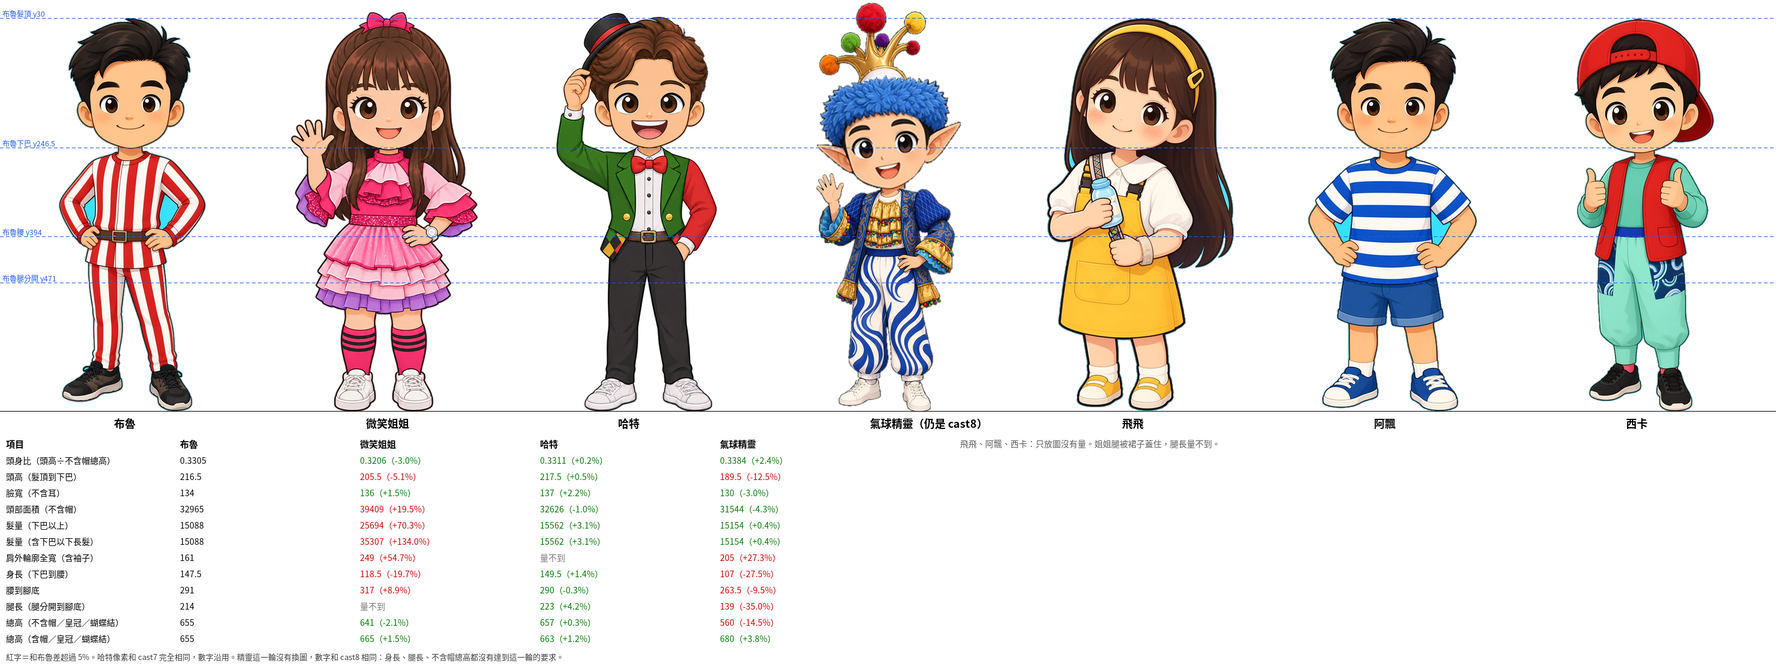
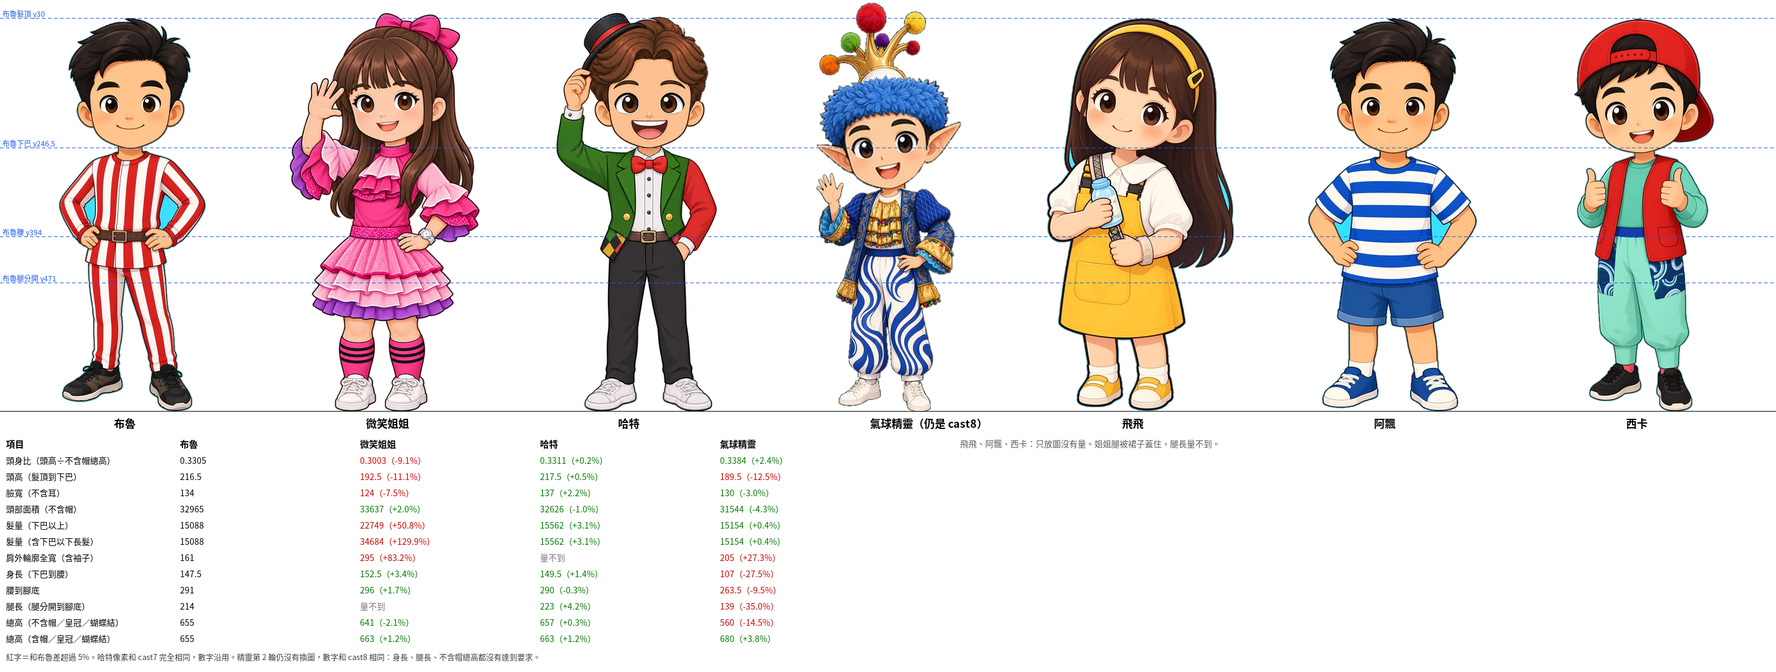
小頌 cast9 第 2 次交叉檢查：審查圖與報告

diff --git a/review/cast9/xiaosong/scripts/img9.py b/review/cast9/xiaosong/scripts/img9.py
@@ -39,8 +39,8 @@ def overlay(n,fn,note):
     if r.get('leg'): s+=f'　腿長 {r["leg"]:g}（{pc("leg")}）'
     d.text((8,H+34),s,fill=(0,0,0),font=F(13)); d.text((8,H+60),note,fill=(200,0,0),font=F(14,True))
     o.save(f'{OUT}/{fn}')
-overlay('jiejie','overlay-sister-vs-blue.png','cast9 姐姐（整張重畫）。頭部面積、髮量、身長超過 ±5%。')
-overlay('spirit','overlay-spirit-vs-blue.png','注意：精靈這張圖和 cast8 逐像素相同，這一輪沒有重畫、沒有加高。')
+overlay('jiejie','overlay-sister-vs-blue.png','cast9 第 2 輪姐姐（整張重畫）。頭部面積、身長、總高在 ±5% 內；頭高 −11.1%、頭身比 −9.1%、臉寬 −7.5% 超過 ±5%。')
+overlay('spirit','overlay-spirit-vs-blue.png','注意：精靈這張圖和 cast8 逐像素相同，第 2 輪仍然沒有重畫、沒有加高。')
 # seven
 order=['bulu','jiejie','hate','spirit','feifei','apiao','sika']; cw=420; H=720
 o=Image.new('RGB',(cw*7+20,H+400),'white'); d=ImageDraw.Draw(o)
@@ -71,7 +71,7 @@ for i,(lab,k,fm) in enumerate(rows):
             elif n!='bulu' and bv:
                 p=(v-bv)/bv*100; s+='（%+.1f%%）'%p; col=(200,0,0) if abs(p)>5 else (0,120,0)
         d.text((300+j*300,y),s,fill=col,font=F(14))
-d.text((10,y0+28+len(rows)*27+4),'紅字＝和布魯差超過 5%。哈特像素和 cast7 完全相同，數字沿用。精靈這一輪沒有換圖，數字和 cast8 相同：身長、腿長、不含帽總高都沒有達到這一輪的要求。',fill=(60,60,60),font=F(13))
+d.text((10,y0+28+len(rows)*27+4),'紅字＝和布魯差超過 5%。哈特像素和 cast7 完全相同，數字沿用。精靈第 2 輪仍沒有換圖，數字和 cast8 相同：身長、腿長、不含帽總高都沒有達到要求。',fill=(60,60,60),font=F(13))
 o.save(f'{OUT}/cmp-seven.png')
 def edges(n,regions,title):
     full_d=comp(P(n),(40,40,48)); full_w=comp(P(n),(255,255,255)); dw=ImageDraw.Draw(full_w)
@@ -90,8 +90,8 @@ def edges(n,regions,title):
             d.text((x,y),lab,fill=(0,0,0),font=F(14)); o.paste(p,(x,y+24)); y+=p.size[1]+34
         x+=cwid[j]
     o.save(f'{OUT}/edges-{n}.png')
-edges('jiejie',[('蝴蝶結',(225,12,325,62),4),('瀏海',(200,105,350,150),3),('舉手指縫',(108,192,192,266),4),('下巴、脖子',(225,228,335,280),4),('右側頭髮外緣與肩膀間的空隙',(350,225,420,300),4),('左袖口',(115,285,200,385),3),('叉腰手、手錶',(295,345,405,415),3),('襪口與裙擺',(185,495,355,560),3),('鞋子',(180,615,360,690),3)],'微笑姐姐　cast9　左：深色底　右：白底＋放大位置')
-edges('spirit',[('舉手袖口',(130,335,200,405),5),('皇冠底座和頭髮交界',(215,108,325,148),5),('左耳、鬢角',(140,225,220,300),4),('下巴、脖子',(220,295,320,345),4),('右耳尖',(320,205,400,275),4)],'氣球精靈　和 cast8 逐像素相同（這一輪沒有換圖）　左：深色底　右：白底＋放大位置')
+edges('jiejie',[('蝴蝶結',(248,15,402,120),3),('瀏海',(205,95,345,150),3),('舉手指縫、手和頭髮之間的空隙',(125,125,215,240),4),('下巴、脖子',(225,212,335,262),4),('右側頭髮外緣與袖子間的空隙',(370,235,430,310),4),('左袖口',(105,215,205,335),3),('叉腰手、手錶、手臂和腰的空隙',(290,300,425,420),3),('襪口與裙擺',(185,500,355,570),3),('腳踝、鞋子',(180,600,360,690),3)],'微笑姐姐　cast9 第 2 輪　左：深色底　右：白底＋放大位置')
+edges('spirit',[('舉手袖口',(130,335,200,405),5),('皇冠底座和頭髮交界',(215,108,325,148),5),('左耳、鬢角',(140,225,220,300),4),('下巴、脖子',(220,295,320,345),4),('右耳尖',(320,205,400,275),4)],'氣球精靈　和 cast8 逐像素相同（第 2 輪仍沒有換圖）　左：深色底　右：白底＋放大位置')
 edges('hate',[('右側頭髮外緣',(322,45,372,170),4),('頭頂',(200,15,300,60),5)],'哈特　和 5b125dc 逐像素相同　左：深色底　右：白底＋放大位置')
 # legs
 L=json.load(open(T+'/legs.json')); J={int(k):v for k,v in L['J'].items()}; Fe={int(k):v for k,v in L['F'].items()}
@@ -107,24 +107,27 @@ def gapc(p,y):
 dx=int(round(gapc(P('jiejie'),600)-gapc(P('feifei'),600)))
 Lr=Image.new('RGBA',(540,720),(255,255,255,255)); Lr.alpha_composite(half(ja)); sh=Image.new('RGBA',(540,720),(0,0,0,0)); sh.paste(fa,(dx,0)); Lr.alpha_composite(half(sh))
 o.paste(big(P('jiejie')),(0,30)); o.paste(big(P('feifei')),(bw+20,30)); o.paste(Lr.convert('RGB').crop(box).resize((bw,bh),Image.LANCZOS),(bw*2+40,30))
-for i,t in enumerate(['微笑姐姐 cast9','飛飛',f'兩人各 50% 相疊（飛飛橫移 {dx:+d} px 對齊兩腿中線，腳底同一條線）']): d.text((i*(bw+20)+6,4),t,fill=(0,0,0),font=F(16,True))
+for i,t in enumerate(['微笑姐姐 cast9 第 2 輪','飛飛',f'兩人各 50% 相疊（飛飛橫移 {dx:+d} px 對齊兩腿中線，腳底同一條線）']): d.text((i*(bw+20)+6,4),t,fill=(0,0,0),font=F(16,True))
 for y in (572,590,608,620,632):
     yy=30+(y-box[1])*k
     for i,(dct,xo) in enumerate([(J,0),(Fe,bw+20)]):
         for xx in range(xo,xo+bw,10): d.line([(xx,yy),(xx+5,yy)],fill=RED)
         d.text((xo+6,yy-18),f'y{y}　左腿 {dct[y][0]}　右腿 {dct[y][1]} px',fill=RED,font=F(13,True))
 yb=bh+40
+def _m(d,y0,y1): return np.array([(d[y][0]+d[y][1])/2 for y in range(y0,y1+1) if y in d])
+jm,fm=_m(J,572,632),_m(Fe,572,632); jc,fc=_m(J,572,604),_m(Fe,572,604); ja_,fa_=_m(J,608,628),_m(Fe,608,628)
 lines=['單腿寬（alpha≥128、原圖 540×720、腳底 y685；左右指畫面左右）',
- '同一高度 y572～632（兩人都露出兩條腿、鞋子以上）平均：姐姐 50.0 px／飛飛 56.3 px＝0.89',
- '最粗處：姐姐 60／飛飛 59.5＝1.01　　最細處（腳踝）：姐姐 40（y618）／飛飛 54＝0.74',
- '姐姐腿露出的整段（y530～632）平均 52.9／飛飛 56.3＝0.94',
- '對照：cast8 姐姐同高度平均 32.7 px（對飛飛 0.58）。布魯單腿平均 52.5 px。',
+ '同一高度 y572～632（兩人都露出兩條腿）平均：姐姐 %.1f px／飛飛 %.1f px＝%.2f'%(jm.mean(),fm.mean(),jm.mean()/fm.mean()),
+ '小腿段 y572～604：姐姐 %.1f／飛飛 %.1f＝%.2f　　腳踝段 y608～628：姐姐 %.1f／飛飛 %.1f＝%.2f'%(jc.mean(),fc.mean(),jc.mean()/fc.mean(),ja_.mean(),fa_.mean(),ja_.mean()/fa_.mean()),
+ '最粗處：姐姐 %.1f／飛飛 %.1f＝%.2f　　最細處（腳踝）：姐姐 %.1f／飛飛 %.1f＝%.2f'%(jm.max(),fm.max(),jm.max()/fm.max(),jm.min(),fm.min(),jm.min()/fm.min()),
+ '對照：cast8 姐姐同高度平均 32.7 px（對飛飛 0.58）；cast9 第 1 輪 50.0 px（0.89）。布魯單腿平均 52.5 px。',
  '姐姐穿及膝長襪、飛飛光腿穿短襪，量的是外輪廓。姐姐腿往腳踝收細，飛飛是直筒。']
+print(lines)
 for i,t in enumerate(lines): d.text((8,yb+i*28),t,fill=(0,0,0),font=F(16,i==0))
 o.save(f'{OUT}/legs-sister-vs-feifei.png')
 # naturalness
 I=json.load(open(T+'/iris.json'))
-items=[('微笑姐姐 cast9','assets/chars/jiejie.png',(150,8,410,290),'jiejie9'),('氣球精靈（仍是 cast8）','assets/chars/spirit.png',(135,95,415,355),'spirit'),('飛飛（參考）','assets/chars/feifei.png',(110,20,430,340),'feifei'),
+items=[('微笑姐姐 cast9 第 2 輪','assets/chars/jiejie.png',(125,12,425,312),'jiejie9'),('氣球精靈（仍是 cast8）','assets/chars/spirit.png',(135,95,415,355),'spirit'),('飛飛（參考）','assets/chars/feifei.png',(110,20,430,340),'feifei'),
        ('姐姐原設定 origin/main',T+'/jiejie-orig.png',(190,35,350,210),None),('姐姐 cast8（被說魚眼那版）',T+'/jiejie-c8.png',(150,8,420,290),None),('精靈原設定 origin/main',T+'/spirit-orig.png',(190,150,350,300),'spirit_orig'),('布魯（比例標準）','assets/chars/bulu.png',(150,20,390,280),'bulu')]
 S=560; o=Image.new('RGB',(S*4+50,(S+70)*2+10),'white'); d=ImageDraw.Draw(o)
 for i,(t,p,b,key) in enumerate(items):

diff --git a/review/cast9/xiaosong/scripts/meas9.py b/review/cast9/xiaosong/scripts/meas9.py
@@ -26,8 +26,9 @@ def measure(n,p,top,chin,waist,seed,kind,open_k=0):
     hat=np.zeros_like(A)
     if kind=='jiejie':
         pink=A&((h>=300)|(h<=4))&(s>0.25)&(v>0.35)
-        hat=fill(dil(pink&(yy<52),1))&A&(yy<52)&~((h>5)&(h<45)&(v<0.62))   # bow
-        hand=comp_from_seed(sk,(150,240)); handz=dil(hand,4)
+        bowz=(yy<125)&(xx>250)&~dil(face,2)
+        hat=fill(dil(pink&bowz,1))&A&bowz&~((h>5)&(h<45)&(v<0.62))   # bow (r2: big, right side)
+        hand=comp_from_seed(sk,(170,170)); handz=dil(hand,4)
         cloth=A&pink&(yy>=200)
         zone&=~hat&~handz&~dil(cloth,1)&~face | face
         zone&=~((xx<170))            # anything left of hair = arm/sleeve
@@ -48,7 +49,7 @@ def measure(n,p,top,chin,waist,seed,kind,open_k=0):
     ears=np.zeros_like(A); fy,fx=np.where(face)
     for i in range(1,nl):
         cxi=_[i][0]
-        if st[i,4]>=60 and (cxi<fx.min()+8 or cxi>fx.max()-8): ears|=lab==i
+        if st[i,4]>=60 and (cxi<fx.min()+8 or cxi>fx.max()-8) and not (kind=='jiejie' and _[i][1]<140): ears|=lab==i
     ears=fill(dil(ears,EARD))&head&~face
     hair=head&~face&~ears
     fy,fx=np.where(face)
@@ -95,7 +96,7 @@ def measure(n,p,top,chin,waist,seed,kind,open_k=0):
 if __name__=='__main__':
     R={}
     R['bulu']=measure('bulu','assets/chars/bulu.png',30,246.5,394,(268,150),'bulu')
-    R['jiejie']=measure('jiejie','assets/chars/jiejie.png',int(sys.argv[2]),float(sys.argv[3]),368,(232,225),'jiejie')
+    R['jiejie']=measure('jiejie','assets/chars/jiejie.png',int(sys.argv[2]),float(sys.argv[3]),389,(265,170),'jiejie')
     R['spirit']=measure('spirit','assets/chars/spirit.png',int(sys.argv[4]),float(sys.argv[5]),421.5,(268,240),'spirit',open_k=3)
     json.dump(R,open(T+'/R.json','w'),indent=1,default=float)
     ks=[k for k in R['bulu']]

diff --git a/review/cast9/xiaosong/scripts/iris.py b/review/cast9/xiaosong/scripts/iris.py
@@ -3,7 +3,7 @@ T=sys.argv[1]; sys.path.insert(0,T)
 from seg import load,hsv
 from PIL import Image
 # name: path, face box (x0,y0,x1,y1) rough, faceW (proper, no ear)
-C={'jiejie9':('assets/chars/jiejie.png',(200,130,350,255),136),'jiejie_orig':(T+'/jiejie-orig.png',(222,95,312,190),None),'jiejie8':(T+'/jiejie-c8.png',(190,95,350,255),140),
+C={'jiejie9':('assets/chars/jiejie.png',(205,125,340,240),124),'jiejie_r1':(T+'/jiejie-r1.png',(200,130,350,255),136),'jiejie_orig':(T+'/jiejie-orig.png',(222,95,312,190),None),'jiejie8':(T+'/jiejie-c8.png',(190,95,350,255),140),
    'feifei':('assets/chars/feifei.png',(170,110,340,250),None),'spirit':('assets/chars/spirit.png',(205,195,340,320),130),'spirit_orig':(T+'/spirit-orig.png',(228,200,312,280),None),'bulu':('assets/chars/bulu.png',(199,110,333,250),134)}
 res={}; tiles=[]
 for n,(p,b,fw) in C.items():

diff --git a/review/cast9/xiaosong/review-r2.md b/review/cast9/xiaosong/review-r2.md
@@ -1,0 +1,195 @@
+VERDICT: FAIL
+
+# 小頌交叉檢查：PR #5 cast9（第 2 次審查）
+
+小頌，2026-11-12。只檢查，沒有生圖、改圖、commit、push、merge，沒有碰 PR #4、photo-live-beauty、threads-revival。
+審的是分支 xiaoxia/cast-redraw-v2 的 commit 72c1f0a（本機和遠端同一個，審查前工作區乾淨）。
+數字是我在本機直接讀像素量的，量法和 cast8、cast9 第 1 次相同；布魯和精靈重量出來和前兩次完全一樣，確認量法沒變。姐姐是新圖，只改了定位點（髮頂 y44、下巴 y236.5、腰帶中線 y389、蝴蝶結和舉手的位置）。
+
+## 結論：精靈還是沒做，所以不過；姐姐這一輪大致可以收
+
+1. **精靈第 2 輪仍然完全沒動。** `assets/chars/spirit.png` 和 cast8 逐像素相同（0 個像素不同）。我的王要的「身高拉高」沒有做：身長 −27.5%、腿長 −35.0%、不含帽總高 −14.5%，三項都沒進 ±5%。
+2. **精靈的大頭感還在。** 圖沒換，頭仍是原設定的臉單獨放大 1.65 倍、身體縮 0.925 倍拼出來的。
+3. **姐姐沒有魚眼。** 整個人一次重畫，我拿小夏留的高解析來源圖核對：橫向和直向縮小倍率都是 0.478，是整張等比縮小，沒有局部放大或拉伸。
+4. **姐姐的臉回到原設定的樣子**：微側臉、腮紅、圓眼、大蝴蝶結偏右都回來了。不是逐像素同一張臉，是照原設定重畫。
+5. **姐姐的腿和飛飛差不多粗了**：小腿段是飛飛的 1.03 倍，整段平均 0.94 倍；只有腳踝還比飛飛細（0.83 倍）。
+6. **姐姐還有三項超過 ±5%**：頭高 −11.1%、頭身比 −9.1%、臉寬 −7.5%。頭部面積 +2.0%、身長 +3.4%、總高 −2.1% 都在範圍內。小夏有寫數字和取捨（不用局部放大去湊）。站在七人裡，姐姐的臉看起來比布魯、哈特小一點。
+
+哈特過（逐像素相同）。
+
+精靈卡住的原因和上一輪一樣：皇冠原樣、身高達標、畫布 540×720 三個條件無法同時成立，小夏在等我的王選。這個算式我上一輪核過是對的。
+
+## 1. 魚眼／局部放大／自然感
+
+圖：`review/cast9/xiaosong/naturalness-vs-feifei.png`（上排姐姐、精靈、飛飛；下排姐姐原設定、姐姐 cast8、精靈原設定、布魯）。
+
+| 檢查 | 微笑姐姐 cast9 第 2 輪 | 氣球精靈（仍是 cast8） | 飛飛（參考） |
+|---|---|---|---|
+| 凸透鏡／局部放大 | **沒有。** 來源圖整張等比縮小（橫 0.4781、直 0.4780），縮完和成品疊起來顏色平均只差 2/255 | **有。** 頭是原設定的臉放大 1.65 倍，身體縮 0.925 倍，分開處理 | 沒有 |
+| 液化、非等比拉伸 | 沒有 | 臉本身長寬同倍率，沒有拉伸 | 沒有 |
+| 大頭狗感 | 沒有。頭高反而比布魯矮 11% | 有：不含帽身高只有布魯的 85%，頭卻和布魯差不多大 | 飛飛本身是大頭 Q 版 |
+| 眼線傾斜（兩眼瞳孔連線） | 4.7°，微微歪頭 | 10.2°（原設定就歪 10.7°） | 15.1°（歪頭姿勢） |
+| 左右眼大小比 | 0.63（微側臉，遠的那隻眼小，和飛飛同一種畫法） | 1.08 | 0.69 |
+| 五官比例 | 兩眼距離是臉寬的 0.53，布魯 0.47、精靈 0.51；沒有鼓出來 | 兩眼距離比例正常 | — |
+| 頭→脖子→肩膀 | 連續，下巴、高領、肩膀沒有接縫或斷線 | 沒有斷線 | 連續 |
+| 瀏海 | 一排，沒有 cast8 的兩排接縫 | — | — |
+
+- **姐姐：這一項通過。** cast8 那種鼓出來的臉、貼臉接縫都沒有了；第 1 輪「像證件照」的正面對稱臉也改掉了，現在和飛飛一樣是微側臉。
+- **精靈：這一項不通過。** 圖沒換，我的王說的大頭、魚眼感原封不動。
+
+## 2. 逐項數字表（布魯 vs 三人）
+
+四張都是 540×720、腳底 y685，原圖直接比。括號是和布魯的差距，**粗體是超過 5%**。帽子、皇冠、蝴蝶結不算頭。
+
+| 項目 | 布魯 | 微笑姐姐 cast9 第 2 輪 | 哈特（沿用 cast7） | 精靈 不含帽 | 精靈 含帽 |
+|---|---:|---:|---:|---:|---:|
+| 頭身比（頭高÷不含帽總高） | 0.3305 | **0.3003（−9.1%）** | 0.3311（+0.2%） | 0.3384（+2.4%） | — |
+| 頭高（髮頂到下巴） | 216.5 | **192.5（−11.1%）** | 217.5（+0.5%） | **189.5（−12.5%）** | — |
+| 臉最寬（不含耳） | 134 | **124（−7.5%）** | 137（+2.2%） | 130（−3.0%） | — |
+| 頭部面積（不含帽） | 32965 | 33637（+2.0%） | 32626（−1.0%） | 31544（−4.3%） | — |
+| 髮量（下巴以上） | 15088 | **22749（+50.8%）** | 15562（+3.1%） | 15154（+0.4%） | — |
+| 髮量（含下巴以下長髮） | 15088 | **34684（+129.9%）** | 15562（+3.1%） | 15154（+0.4%） | — |
+| 頭寬（含頭髮） | 204 | **229（+12.3%）** | 194（−4.9%） | **234（+14.7%）**，扣耳朵 211（+3.4%） | — |
+| 臉的面積（膚色部分） | 16159 | **9978（−38.3%）** | — | **12594（−22.1%）** | — |
+| 肩外輪廓全寬（含頭髮、袖子） | 161 | **295（+83.2%）** | 量不到（舉手） | **205（+27.3%）** | — |
+| 身長（下巴到腰） | 147.5 | 152.5（+3.4%） | 149.5（+1.4%） | **107（−27.5%）** | — |
+| 腰到腳底 | 291 | 296（+1.7%） | 290（−0.3%） | **263.5（−9.5%）** | — |
+| 腿長（兩腿分開點到腳底） | 214 | 量不到（裙子蓋住） | 223（+4.2%） | **139（−35.0%）** | — |
+| 總高 | 655 | 641（−2.1%），含蝴蝶結 663（+1.2%） | 657（+0.3%） | **560（−14.5%）** | 680（+3.8%） |
+
+定位點（y）：布魯髮頂 30、下巴 246.5、腰 394；姐姐髮頂 44、下巴 236.5、腰 389；精靈髮頂 125、下巴 314.5、腰 421.5、皇冠頂 5。
+
+對照這一輪的條件：
+
+- **姐姐**
+  - 總高 −2.1%：過。
+  - 頭身比 −9.1%：**超過 ±5%**。原因是頭高矮了 24 px（布魯是往上翹的刺蝟頭，頭髮把頭撐高；姐姐頭頂平、被蝴蝶結壓著）。
+  - 頭部大小：頭部面積 +2.0% 過（第 1 輪是 +19.5%）；**頭高 −11.1%、臉寬 −7.5% 超過 ±5%**。小夏報告有寫這三個數字和理由（保住自然的五官和髮型，不局部放大），算有交代。
+  - 臉的膚色面積只有布魯的 62%：齊瀏海蓋住額頭，加上臉本身窄一點。所以排在一起臉看起來比較小。
+  - 身長 +3.4%：過（第 1 輪是 −19.7%）。
+  - 髮量、肩外輪廓大很多，是長髮和喇叭袖造成的，角色設定本來就這樣。
+- **精靈**
+  - 身長、腿長、不含帽總高三項要 ±5%：**−27.5%、−35.0%、−14.5%，三項都不過。**
+  - 含帽總高 680，是七人裡最高，但那是 cast8 就有的。
+  - 頭維持 cast8 大小：是（圖沒動），但魚眼感也沒解。
+
+小夏的數字和我的對得上：她髮頂取 y46、我取 y44，所以她頭高 −12.0%、頭身比 −9.8%，我 −11.1%、−9.1%；頭部面積她 +1.1%、我 +2.0%；臉寬、身長、肩寬相同。沒有結論相反的項目。
+
+## 3. 姐姐腿寬對飛飛
+
+圖：`review/cast9/xiaosong/legs-sister-vs-feifei.png`。alpha≥128、腳底同一條線、單腿外輪廓（畫面左腿／右腿）。
+
+| 位置 | 姐姐 | 飛飛 | 姐姐÷飛飛 |
+|---|---:|---:|---:|
+| y572（小腿上段） | 59／60 | 56／60 | 1.05／1.00 |
+| y590 | 59／59 | 55／57 | 1.07／1.04 |
+| y602 | 54／54 | 54／55 | 1.00／0.98 |
+| y608 | 51／51 | 55／56 | 0.93／0.91 |
+| y620（腳踝） | 45／45 | 55／56 | 0.82／0.80 |
+| y626 | 42／43 | 57／54 | 0.74／0.80 |
+| 小腿段 y572～604 平均 | 58.1 | 56.5 | **1.03** |
+| 同高度 y572～632 整段平均 | 53.1 | 56.3 | **0.94** |
+| 腳踝段 y608～628 平均 | 46.2 | 55.8 | 0.83 |
+| 最粗處 | 60 | 59.5 | 1.01 |
+| 最細處 | 42.5（y622） | 54 | 0.79 |
+
+- cast8 是 0.58 倍、第 1 輪 0.89 倍，現在整段 0.94、小腿 1.03。**腿細的問題解決，這一項過。**
+- 剩下的差別是形狀：飛飛的腿是直筒到鞋口，姐姐在腳踝收細到 42～45 px。要更像飛飛，腳踝再粗 8～10 px。
+- 小夏報告寫的 y580～610 平均 1.0075，我量同一段是 1.01，一致。她自己也寫了腳踝較細，沒有隱瞞。
+- 姐姐穿及膝長襪、飛飛光腿，量的都是外輪廓。
+
+## 4. 哈特：過
+
+| 檢查 | 結果 |
+|---|---|
+| 和 `5b125dc:assets/chars/hate.png` 逐像素比（RGBA 四個色版） | **0 個像素不同** |
+| sha256 | 兩邊都是 99e82826…c1b0d，和腳本附的相同 |
+| hate.webp 解開後和 PNG | 0 個像素不同 |
+
+## 5. 原設定一致性
+
+姐姐（對 `origin/main:assets/chars/jiejie.png`）：
+
+| 項目 | 結果 |
+|---|---|
+| 臉 | **接近原設定。** 微側臉、腮紅、圓眼、張嘴笑都回來了。不同處：原設定頭歪得比較多，現在只歪 4.7°；睫毛畫得比原設定明顯一點 |
+| 髮型 | 齊瀏海、長直髮。蝴蝶結回到大顆、偏頭頂右側，和原設定一樣 |
+| 服裝 | 粉紅多層荷葉、亮片腰帶、紫色襯裙、桃紅條紋長襪、白鞋、手錶、喇叭袖都在。裙子比原設定短一點，粉色層數略有不同 |
+| 姿勢 | 一手揮手、一手叉腰，相同。揮手的手在眼睛高度（y132～200），原設定在頭旁邊更高（y40～100） |
+| 站正 | 身體直，兩腳都踩在 y685 |
+| 襪子條紋 | 上一輪我寫「原設定 2 條、新版 3 條」是我看錯，原設定和新版都是 3 條，更正 |
+
+精靈（對 `origin/main:assets/chars/spirit.png`）：圖和 cast8 相同，臉、頭髮、服裝、姿勢是原設定，皇冠原尺寸在頭頂。這一輪要的加長沒有做，「加長處有沒有拉伸」無從檢查。
+
+## 6. 站正、五官、邊緣
+
+| 項目 | 微笑姐姐 cast9 第 2 輪 | 哈特 | 精靈（同 cast8） |
+|---|---|---|---|
+| 尺寸、腳底 | 540×720、y685 | 540×720、y685 | 540×720、y685 |
+| WebP 和 PNG 逐像素 | 相同 | 相同 | 相同 |
+| 硬切像素（不透明直接貼全透明） | 0 | 94（cast7 就有，沒動） | 0 |
+| 輪廓帶半透明柔邊 | 100% | 100% | 100% |
+| 分離碎點 | 0（整張只有 1 塊） | 3 塊，透明度最高 3/255（cast7 就有） | 0 |
+| 貼邊的青藍色背景 | 0 | 0 | 3 個像素 |
+| 外圈缺深色描邊的輪廓點 | 3,530 個裡 0 個 | 0 | 4,132 個裡 55 個，最長 23 px，在皇冠底座和頭髮交界（cast8 已提過） |
+| 輪廓內透空 | 5 處，都是真的空隙：舉手和頭髮之間 2 處、右側髮束和袖子之間 2 處、叉腰手臂和腰之間 1 處 | 沒動 | 同 cast8 |
+
+- 姐姐邊緣：蝴蝶結、瀏海、手指縫、下巴脖子、右側頭髮、袖口、叉腰手、襪口裙擺、鞋子九處放大看，白底和深色底都乾淨，沒有鋸齒、斷線、白邊、殘留背景。見 `review/cast9/xiaosong/edges-jiejie.png`。
+- 站正：三人身體都直。眼線姐姐 4.7°、精靈 10.2°（原設定姿勢）、哈特和布魯約 0～2°。
+- 五官：姐姐、哈特、精靈的眼型、眉毛、嘴型、臉型各不相同。
+
+## 問題
+
+1. 精靈沒有重畫、沒有加高，身長、腿長、不含帽總高三項不過。（卡在等我的王決定畫布）
+2. 精靈的頭仍是局部放大拼出來的，大頭感沒有處理。
+3. 姐姐頭高 −11.1%、頭身比 −9.1%、臉寬 −7.5%，超過 ±5%，排在一起臉偏小。小夏有寫取捨。
+4. 姐姐腳踝比飛飛細（0.83 倍）。
+5. 姐姐小差異：頭歪的角度比原設定小、揮手位置比原設定低、裙子略短。
+6. 小夏報告提到遊戲裡姐姐會走「只對齊身高」那條路，畫面上頭高約為基準的 87%。這部分我沒有驗遊戲畫面，只量了圖。
+
+## 建議
+
+1. **請我的王先決定精靈的畫布**，這仍是唯一卡住精靈的事：
+   - A：精靈的圖加高（例如 540×800，腳底一起往下移到 y765），皇冠原樣、身高達標。要連帶改遊戲裡的對齊方式。我建議這個，最符合「戴高帽比大家高是合理的」。
+   - B：畫布不變，皇冠等比縮小。
+   - C：畫布不變、皇冠不變，身高不達標。
+2. 精靈決定後整個重畫，不要再用「臉放大、身體縮小」拼。
+3. 姐姐請我的王看 `review/cast9/xiaosong/cmp-seven.png` 和 `review/cast9/xiaosong/naturalness-vs-feifei.png`：
+   - 覺得臉的大小可以，姐姐就收這版。
+   - 覺得臉偏小，重出圖時要求頭整體大約 8%（連頭髮一起等比放大重畫，不是後製局部放大），腳踝順便畫粗一點。
+4. 姐姐不建議再用後製去湊頭高數字，那會回到 cast8 的魚眼問題。
+
+## 圖檔位置
+
+我做的圖（repo 內相對路徑，worktree `/Volumes/外接資料碟/ai-lab/fantaco-cast-v2`，只放檔案，沒有 git add 或 commit）：
+
+- `review/cast9/xiaosong/overlay-sister-vs-blue.png`
+- `review/cast9/xiaosong/overlay-spirit-vs-blue.png`（精靈仍是 cast8 的圖）
+- `review/cast9/xiaosong/legs-sister-vs-feifei.png`
+- `review/cast9/xiaosong/naturalness-vs-feifei.png`
+- `review/cast9/xiaosong/cmp-seven.png`
+- `review/cast9/xiaosong/edges-jiejie.png`
+- `review/cast9/xiaosong/edges-spirit.png`
+- `review/cast9/xiaosong/edges-hate.png`
+- 量測程式：`review/cast9/xiaosong/scripts/`（seg.py、meas9.py、chk9.py、iris.py、img9.py、zoom.py；meas9.py、iris.py、img9.py 這一輪改成新姐姐的定位點）
+
+疊圖：左邊兩人各 50% 透明相疊、右邊輪廓線（藍布魯、紅對照角色），原尺寸、腳底對齊 y685。七人對照：下方數字表紅字是超過 5%；飛飛、阿飄、西卡只放圖沒有量。邊緣圖：每格是白底｜深底｜透明度。
+
+小夏的圖（同一個 repo）：
+
+- `review/cast9/cmp-seven.png`
+- `review/cast9/overlay-sister-vs-blue.png`、`review/cast9/overlay-spirit-vs-blue.png`
+- `review/cast9/legs-sister-vs-feifei.png`
+- `review/cast9/before-after-sister.png`、`review/cast9/before-after-spirit.png`
+- `review/cast9/edges-sister.png`、`review/cast9/edges-spirit.png`
+- `review/cast9/candidate-sister-r2.png`、`review/cast9/mask-sister-r2.png`
+- `review/cast9/game-sister-desktop.png`、`review/cast9/game-sister-mobile.png`、`review/cast9/game-sister-feet-diagnostic.png`、`review/cast9/game-orders-mobile.png`
+- `review/cast9/source/sister-built-in-r2.png`（我只用這張核對等比縮小）
+
+小夏其他的圖我沒有逐張核對，結論全部來自自己量的數字和自己做的圖。
+
+補充：`review/cast9/review-r2-xiaosong.md` 是稍早小夏做圖途中我只看圖給的意見，當時沒有重算數字。以這份報告為準。
+
+## 清理
+
+暫存資料夾 `/Volumes/外接資料碟/AI工作/暫存/cast9-review-r2/` 已刪除。worktree 只更新了 `review/cast9/xiaosong/` 裡的圖和量測程式，沒有動其他檔案。沒有開 Photoshop 或 Illustrator，pgrep 確認兩個都沒有程序。
